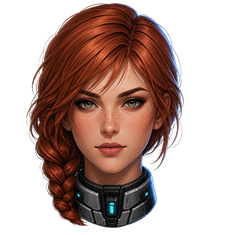
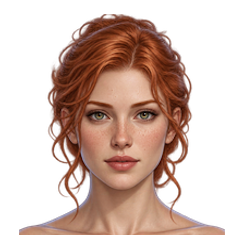
Crew station

diff --git a/src/DeepSpaceSaga.Client/UI/Screens/DockingConfirm/DockingConfirmScreen.cs b/src/DeepSpaceSaga.Client/UI/Screens/DockingConfirm/DockingConfirmScreen.cs
@@ -45,6 +45,21 @@ internal sealed class DockingConfirmScreen : IScreen
     private static readonly SKBitmap? BackgroundImage =
         LoadImage("Images/UI/mechanics-window-background-titlebar-1400x900.png");
 
+    /// <summary>
+    /// Test-only: every female face portrait file, for <see cref="RerollDockOperatorFace"/>'s
+    /// click-to-randomize. Not a gameplay data source — just a dev tool to preview the
+    /// corporate suit against many faces without restarting the game.
+    /// </summary>
+    private static readonly string[] FemaleFacePool = LoadFemaleFacePool();
+
+    private static readonly Random RerollRandom = new();
+
+    private static string[] LoadFemaleFacePool()
+    {
+        try { return Directory.Exists("Images/Persons/W") ? Directory.GetFiles("Images/Persons/W", "*.png") : []; }
+        catch { return []; }
+    }
+
     private static SKBitmap? LoadImage(string path)
     {
         try { return File.Exists(path) ? SKBitmap.Decode(path) : null; }
@@ -82,11 +97,48 @@ internal sealed class DockingConfirmScreen : IScreen
             return ScreenEvent.CloseDockingConfirm;
         }
 
+        // Test-only: clicking the dock operator's portrait reshuffles her face — see
+        // RerollDockOperatorFace. Checked before the "outside panel closes" fallback since
+        // the portrait sits inside the panel.
+        if (DockOperatorPortraitScreenRect().Contains(x, y))
+        {
+            RerollDockOperatorFace();
+            return ScreenEvent.None;
+        }
+
         // Click on the dimmed background outside the panel also closes it — no command sent.
         if (!DockingConfirmLayout.IsInsidePanel(x, y, _screenWidth, _screenHeight))
             return ScreenEvent.CloseDockingConfirm;
 
         return ScreenEvent.None;
+    }
+
+    private SKRect DockOperatorPortraitScreenRect()
+    {
+        var local = DockingConfirmLayout.DockOperatorPortraitLocalRect();
+        float pl = DockingConfirmLayout.PanelLeft(_screenWidth);
+        float pt = DockingConfirmLayout.PanelTop(_screenHeight);
+        return new SKRect(pl + local.Left, pt + local.Top, pl + local.Right, pt + local.Bottom);
+    }
+
+    /// <summary>
+    /// Test-only: recomposes the dock operator's portrait with a random face from
+    /// <see cref="FemaleFacePool"/> on the same corporate suit — lets a dev eyeball the
+    /// suit/docking-point calibration against many faces without restarting the game. Not
+    /// wired to any snapshot data; the reroll is purely local render state.
+    /// </summary>
+    private void RerollDockOperatorFace()
+    {
+        if (FemaleFacePool.Length == 0)
+            return;
+
+        string facePath = FemaleFacePool[RerollRandom.Next(FemaleFacePool.Length)];
+        var recomposed = PortraitComposer.ComposeBodyAndHeadPortrait(facePath, PersonSex.Female, _request.TargetObjectId);
+        if (recomposed is null)
+            return;
+
+        _dockOperatorPortrait?.Dispose();
+        _dockOperatorPortrait = recomposed;
     }
 
     /// <summary>Convenience shortcut for a left click — kept for existing call sites/tests.</summary>
